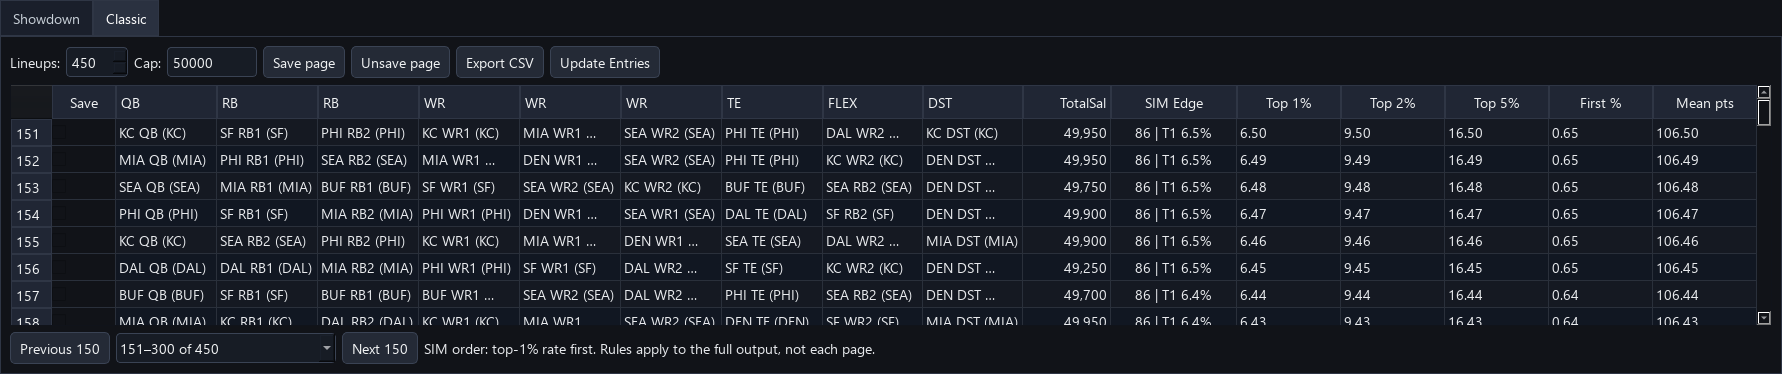
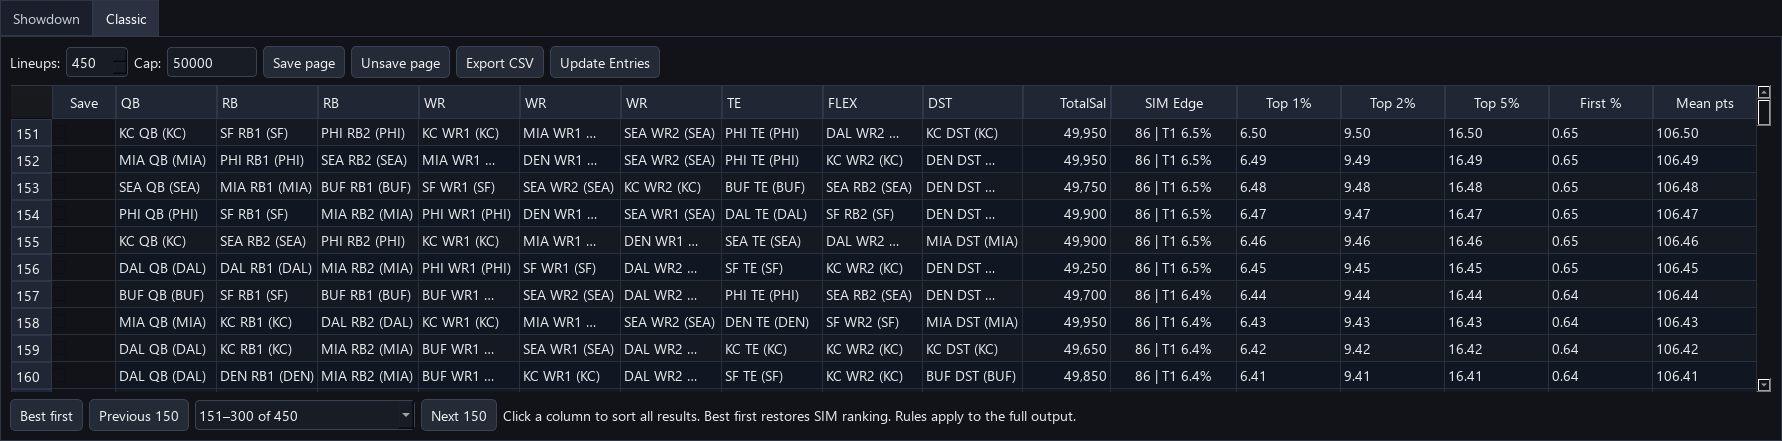
Sort all result pages by column and prevent repeated SIM columns

diff --git a/main_window.py b/main_window.py
@@ -6485,7 +6485,13 @@ class MainWindow(QtWidgets.QMainWindow):
         self._build_cancel.setVisible(False)
 
     def _add_result_pages(self, layout, kind):
+        table = self.tbl_sd if kind == "showdown" else self.tbl_cl
+        table.horizontalHeader().setSectionsClickable(True)
+        table.horizontalHeader().sectionClicked.connect(lambda column: self._sort_result_column(kind, column))
         bar = QtWidgets.QHBoxLayout()
+        reset = QtWidgets.QPushButton("Best first")
+        reset.clicked.connect(lambda: self._reset_result_sort(kind))
+        bar.addWidget(reset)
         previous = QtWidgets.QPushButton("Previous 150")
         following = QtWidgets.QPushButton("Next 150")
         combo = QtWidgets.QComboBox()
@@ -6497,10 +6503,53 @@ class MainWindow(QtWidgets.QMainWindow):
         combo.currentIndexChanged.connect(lambda page: self._change_result_page(kind, page))
         for widget in (previous, combo, following):
             bar.addWidget(widget)
-        note = QtWidgets.QLabel("SIM order: top-1% rate first. Rules apply to the full output, not each page.")
+        note = QtWidgets.QLabel("Click a column to sort all results. Best first restores SIM ranking. Rules apply to the full output.")
         note.setWordWrap(True)
         bar.addWidget(note, 1)
         layout.addLayout(bar)
+
+    def _reset_result_sort(self, kind):
+        setattr(self, "_" + kind + "_sort", None)
+        self._change_result_page(kind, 0)
+
+    def _sort_result_column(self, kind, column):
+        if column == 0:
+            return
+        table = self.tbl_sd if kind == "showdown" else self.tbl_cl
+        item = table.horizontalHeaderItem(column)
+        if item is None:
+            return
+        previous = getattr(self, "_" + kind + "_sort", None)
+        label = item.text()
+        numeric = label in {"SIM Edge", "Grade", "TotalSal", "Top 1%", "Top 2%", "Top 5%", "First %", "Mean pts"}
+        descending = not previous[1] if previous and previous[0] == column else numeric
+        setattr(self, "_" + kind + "_sort", (column, descending, label))
+        self._change_result_page(kind, 0)
+
+    def _sorted_result_rows(self, rows, kind, sport="NFL"):
+        choice = getattr(self, "_" + kind + "_sort", None)
+        if not choice:
+            return rows
+        column, descending, label = choice
+        metrics = {"SIM Edge": "sim_edge", "Top 1%": "sim_top_one_pct", "Top 2%": "sim_top_two_pct",
+                   "Top 5%": "sim_top_five_pct", "First %": "sim_win_rate", "Mean pts": "sim_mean"}
+        def key(lu):
+            if label in metrics:
+                try:
+                    value = float((getattr(lu, "sim_metrics", {}) or {}).get(metrics[label], float("nan")))
+                except (ValueError, TypeError):
+                    value = float("nan")
+                return value if math.isfinite(value) else (float("-inf") if descending else float("inf"))
+            if label == "TotalSal":
+                return sum(float(p.get("FlexSalary", 0) or 0) for p in lu)
+            if label == "Grade":
+                return float(lineup_grade_for_sport(lu, sport, self._safe_float(self.edit_cl_cap.text(), 50000)).get("score", 0) or 0)
+            if kind == "showdown":
+                players = [lu.get("Captain")] + sorted(lu.get("Flex", []), key=lambda p: p.get("FlexSalary", 0), reverse=True)
+                return self._display_name(players[column - 1]).casefold() if 0 < column <= len(players) else ""
+            cells = self._classic_display_cells(lu, sport)
+            return cells[column - 1].casefold() if 0 < column <= len(cells) else ""
+        return sorted(rows, key=key, reverse=descending)
 
     def _change_result_page(self, kind, page):
         if page < 0:
@@ -6521,7 +6570,8 @@ class MainWindow(QtWidgets.QMainWindow):
         if any(finish_rank(lu)[0] for lu in rows):
             columns = [("Top 1%", "sim_top_one_pct"), ("Top 2%", "sim_top_two_pct"),
                        ("Top 5%", "sim_top_five_pct"), ("First %", "sim_win_rate"), ("Mean pts", "sim_mean")]
-            start = table.columnCount()
+            # Set the schema explicitly: repeated refreshes must not append columns.
+            start = 8 if kind == "showdown" else len(get_roster_slots_for_sport(getattr(self, "_classic_result_sport", "NFL"))) + 3
             table.setColumnCount(start + len(columns))
             for col, (label, key) in enumerate(columns, start):
                 table.setHorizontalHeaderItem(col, QtWidgets.QTableWidgetItem(label))
@@ -6540,10 +6590,14 @@ class MainWindow(QtWidgets.QMainWindow):
         combo.blockSignals(False)
         previous.setEnabled(page > 0)
         following.setEnabled((page + 1) * 150 < len(rows))
+        choice = getattr(self, "_" + kind + "_sort", None)
+        table.horizontalHeader().setSortIndicatorShown(bool(choice))
+        if choice:
+            table.horizontalHeader().setSortIndicator(choice[0], QtCore.Qt.DescendingOrder if choice[1] else QtCore.Qt.AscendingOrder)
         self._sync_saved_checkboxes(kind)
 
     def _populate_showdown_lineups(self, lineups: List[Dict[str, Any]], page: int = 0) -> None:
-        self.last_showdown = ranked_lineups(lineups or [])
+        self.last_showdown = self._sorted_result_rows(ranked_lineups(lineups or []), "showdown")
         self._showdown_page = page
         visible = self.last_showdown[page * 150:(page + 1) * 150]
         has_sim = any(getattr(lu, "sim_metrics", {}).get("sim_scenarios", 0) for lu in self.last_showdown)
@@ -6586,7 +6640,6 @@ class MainWindow(QtWidgets.QMainWindow):
                 self.tbl_sd.setItem(i, 7, item)
             self._build_progress.setValue(i + 1)
             self._build_eta.setText(f"Rendering {i + 1:,}/{total:,}")
-            QtWidgets.QApplication.processEvents()
 
         self._finish_result_page("showdown", visible)
 
@@ -6619,7 +6672,7 @@ class MainWindow(QtWidgets.QMainWindow):
 
         if any(finish_rank(lu)[0] for lu in valid_lineups):
             valid_lineups = ranked_lineups(valid_lineups)
-        self.last_classic = valid_lineups
+        self.last_classic = self._sorted_result_rows(valid_lineups, "classic", sport)
         self._classic_page = page
         self._classic_result_sport = sport
         visible = self.last_classic[page * 150:(page + 1) * 150]
@@ -6735,7 +6788,6 @@ class MainWindow(QtWidgets.QMainWindow):
 
             self._build_progress.setValue(i + 1)
             self._build_eta.setText(f"Rendering {i + 1:,}/{total:,}")
-            QtWidgets.QApplication.processEvents()
 
         self._finish_result_page("classic", visible)
 

diff --git a/test_ranked_search.py b/test_ranked_search.py
@@ -152,6 +152,27 @@ class RankedSearchTests(unittest.TestCase):
                     self.assertTrue(table.cellWidget(0, 0).isChecked())
                     table.cellWidget(0, 0).setChecked(False)
                     self.assertFalse(saved)
+                    visible = (window.last_classic if kind == 'classic' else window.last_showdown)[150:300]
+                    count = table.columnCount()
+                    window._finish_result_page(kind, visible)
+                    window._finish_result_page(kind, visible)
+                    self.assertEqual(table.columnCount(), count)
+                    labels = [table.horizontalHeaderItem(i).text() for i in range(count)]
+                    self.assertEqual(labels.count('Top 1%'), 1)
+                    column = labels.index('Top 1%')
+                    window._sort_result_column(kind, column)
+                    generated = window.last_classic if kind == 'classic' else window.last_showdown
+                    self.assertIs(generated[0], rows[449])
+                    window._sort_result_column(kind, column)
+                    generated = window.last_classic if kind == 'classic' else window.last_showdown
+                    self.assertIs(generated[0], rows[0])
+                    self.assertIs(generated[150], rows[150])
+                    table.cellWidget(0, 0).setChecked(True)
+                    self.assertIs(saved[0], rows[0])
+                    window._reset_result_sort(kind)
+                    combo.setCurrentIndex(2)
+                    self.assertTrue(table.cellWidget(149, 0).isChecked())
+                    table.cellWidget(149, 0).setChecked(False)
                 self.assertEqual(window.spin_cl.maximum(), 1000)
                 self.assertEqual(window.spin_sd.maximum(), 1000)
             finally:

diff --git a/docs/releases/configurable-deep-compute.md b/docs/releases/configurable-deep-compute.md
@@ -24,3 +24,11 @@ Set **Lineups** to 300, 450, or any count up to **1,000**. Results display 150 p
 Use **Save page**, **Unsave page**, or individual checkboxes. Saved selections survive page changes and are ordered by finish rates when added. Export still contains only the proper roster IDs; generating more alternatives does not change a contest's entry limit. Finish-rate ordering is for comparisons within the same simulation run, not calibrated comparisons between separate runs. Non-SIM Classic builds keep their grade order. Equal metrics may tie. Budget exhaustion can produce fewer candidates or outputs, and incomplete validation is reported. Ranked results cover tested candidates, not every possible lineup.
 
 Automatic Showdown guardrail relaxation is now explicitly reported when portfolio selection raises its starting caps to fill the requested count.
+
+### Sorting results and reading finish rates
+
+Click a column heading in either generated-results table to sort **all generated results**, across every page. Numeric columns start highest first; player names start A–Z. Click again to reverse the order. **Best first** restores top-1%, top-2%, top-5%, first-place rate and mean-points ordering. Row numbers describe positions in the current view. Sorting changes the view, not the selected lineup set or simulation results. Save checkboxes remain attached to the correct lineup after sorting and paging.
+
+Top 1%, Top 2% and Top 5% are the shares of simulated scenarios where the lineup reaches those opponent-field thresholds, including ties. They are cumulative: top-1% outcomes are also within top 2% and top 5%; do not add the columns. First % includes ties for the best sampled opponent score. Mean pts is average simulated fantasy points. SIM Edge is a relative composite score out of 100, not a probability. For example, a 19.58% top-1% rate over 10,000 scenarios means 1,958 qualifying scenarios. These are model results, not calibrated actual-contest winning probabilities.
+
+Result refreshes rebuild exactly one set of finish-rate columns. Reentrant table rendering is removed to prevent stale renderers appending repeated metric groups.

diff --git a/README.md b/README.md
@@ -220,3 +220,11 @@ Illustrative results on synthetic fixtures (finish rates below are demonstration
 ![Classic ranked results, page 2](docs/images/ranked-results.png)
 
 ![Showdown ranked results, page 2](docs/images/showdown-ranked-results.png)
+
+### Sorting results and reading finish rates
+
+Click a column heading in either generated-results table to sort **all generated results**, across every page. Numeric columns start highest first; player names start A–Z. Click again to reverse the order. **Best first** restores top-1%, top-2%, top-5%, first-place rate and mean-points ordering. Row numbers describe positions in the current view. Sorting changes the view, not the selected lineup set or simulation results. Save checkboxes remain attached to the correct lineup after sorting and paging.
+
+Top 1%, Top 2% and Top 5% are the shares of simulated scenarios where the lineup reaches those opponent-field thresholds, including ties. They are cumulative: top-1% outcomes are also within top 2% and top 5%; do not add the columns. First % includes ties for the best sampled opponent score. Mean pts is average simulated fantasy points. SIM Edge is a relative composite score out of 100, not a probability. For example, a 19.58% top-1% rate over 10,000 scenarios means 1,958 qualifying scenarios. These are model results, not calibrated actual-contest winning probabilities.
+
+Result refreshes rebuild exactly one set of finish-rate columns. Reentrant table rendering is removed to prevent stale renderers appending repeated metric groups.

diff --git a/docs/USER_GUIDE.md b/docs/USER_GUIDE.md
@@ -382,3 +382,11 @@ Illustrative results on synthetic fixtures (finish rates below are demonstration
 ![Classic ranked results, page 2](images/ranked-results.png)
 
 ![Showdown ranked results, page 2](images/showdown-ranked-results.png)
+
+### Sorting results and reading finish rates
+
+Click a column heading in either generated-results table to sort **all generated results**, across every page. Numeric columns start highest first; player names start A–Z. Click again to reverse the order. **Best first** restores top-1%, top-2%, top-5%, first-place rate and mean-points ordering. Row numbers describe positions in the current view. Sorting changes the view, not the selected lineup set or simulation results. Save checkboxes remain attached to the correct lineup after sorting and paging.
+
+Top 1%, Top 2% and Top 5% are the shares of simulated scenarios where the lineup reaches those opponent-field thresholds, including ties. They are cumulative: top-1% outcomes are also within top 2% and top 5%; do not add the columns. First % includes ties for the best sampled opponent score. Mean pts is average simulated fantasy points. SIM Edge is a relative composite score out of 100, not a probability. For example, a 19.58% top-1% rate over 10,000 scenarios means 1,958 qualifying scenarios. These are model results, not calibrated actual-contest winning probabilities.
+
+Result refreshes rebuild exactly one set of finish-rate columns. Reentrant table rendering is removed to prevent stale renderers appending repeated metric groups.
